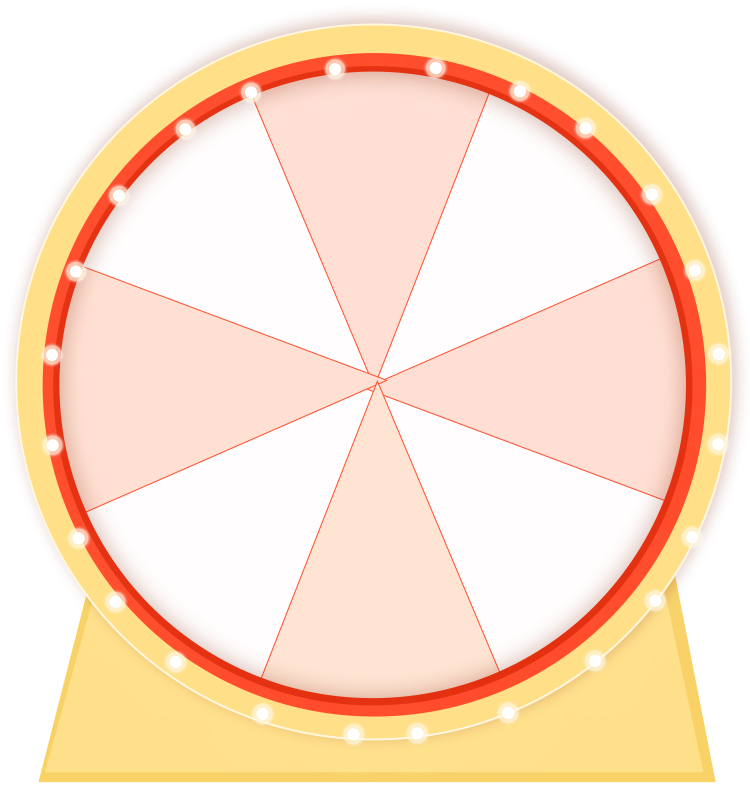
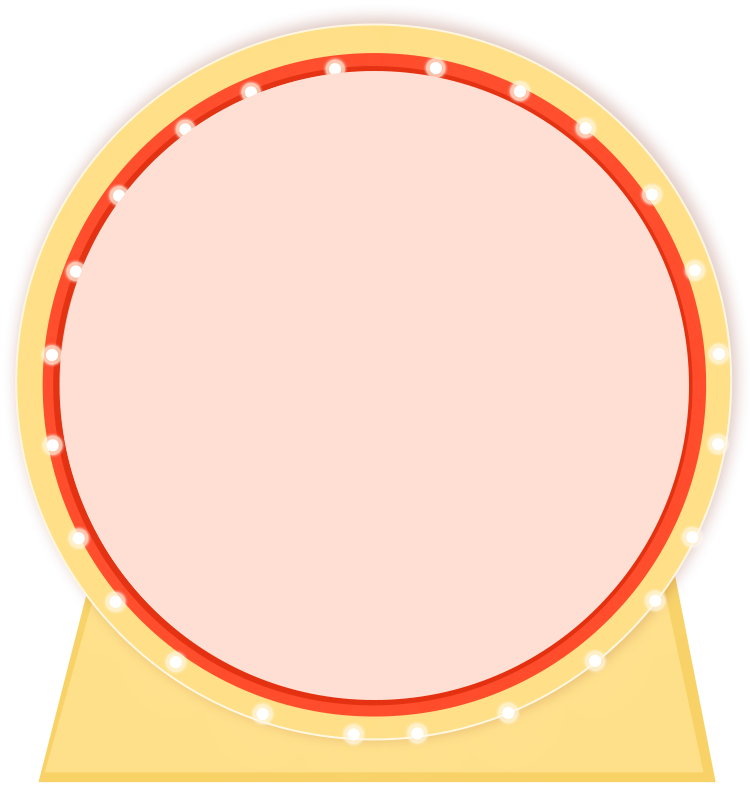
...

Changed region(s): [[0.092, 0.0623, 0.92, 0.8717], [0.0613, 0.4047, 0.092, 0.5604], [0.092, 0.3425, 0.1227, 0.4047]]

diff --git a/pages/turntable.vue b/pages/turntable.vue
@@ -11,13 +11,22 @@
         <view class="zp_box">
 
             <view class="zp_zz">
-
-                <image style="width: 100%;" src="/static/zp_zz.png" mode="widthFix"></image>
+                <image style="width: 100%;" src="/static/zp_zz.png" mode="widthFix" @click="start"></image>
             </view>
-            
+
+            <view class="info_box">
+                <view class="panel">
+                    <view class="box-item" v-for="(item, index) in prizeList" :key="index">
+                        <text>{{ item.name}}</text>
+                        <text>{{ item.amount}}</text>
+                        <!-- <text>元</text>  -->
+                    </view>
+                </view>
+            </view>
+
         </view>
 
-        
+
 
     </view>
 
@@ -27,48 +36,121 @@
 </template>
 
 <script>
-    export default{
-        data(){
-            return{
-                zp_list:[]
-            }
-        },
-        methods :{
-            getDataList(){
-                this.to.www(this.api.zp_list)
-            }
-        },
-        onLoad(){
-            this.getDataList()
+export default {
+    data() {
+        return {
+            user_info:{},
+            rotateNum: 0,
+
+            isStart: false,
+			startTimer: null,
+
+            cishu: 0,
+            prizeList: [],
+			prizeRange: [],
         }
+    },
+    methods: {
+        getDataList() {
+            this.to.www(this.api.signinPrizeList)
+            .then(res => {
+                this.prizeList = res.data;
+                // 中奖范围
+                this.prizeList.forEach((item, idx) => {
+                    this.prizeRange.push({
+                        id: item.id,
+                        min: idx * 51.42 + 5,
+                        max: (idx + 1) * 51.42 - 5
+                    })
+                })
+            })
+        },
+
+        getUserInfo(){
+            this.to.www(this.api.user_info)
+            .then(res => {
+                this.user_info = res.data
+
+                const {huodong = 0, admin_huodong = 0} = this.user_info
+                if(huodong) this.cishu = huodong
+                if(!huodong && admin_huodong)   this.cishu = admin_huodong
+
+            })
+        },
+        getRandomNumber(min, max) {
+            return Math.floor(Math.random() * (max - min + 1) + min);
+        },
+        start() {
+            
+            if(this.cishu <= 0){
+                this.toa('暂无抽奖次数')
+            }else{
+                console.log(this.cishu)
+                if (this.isStart || this.cishu <= 0) return
+
+                this.to.www(this.api.signinTurntable)
+                .then(res => {
+                    this.cishu--;
+                    this.isStart = true;
+                    this.startTimer = setInterval(() => {
+                        this.rotateNum = this.rotateNum + 10;
+                    }, 1)
+                    let prize = this.prizeRange.find(item => item.id == res.data.prize_id)
+                    setTimeout(() => {
+                        this.isStart = false;
+                        clearInterval(this.startTimer);
+                        let rv = this.getRandomNumber(prize.min, prize.max);
+                        if(rv < 0){
+                            rv = 360 + rv;
+                        }
+                        this.rotateNum = rv;
+                        uni.showToast({
+                            title: res.data.name,
+                            icon: 'none'
+                        });
+                    }, 2000)
+                })
+                .catch((err) => {
+                    this.isStart = false;
+                })
+
+
+            }
+        }
+
+    },
+    onLoad() {
+        this.getUserInfo()
+        this.getDataList()
     }
+}
 </script>
 
 
 <style lang="scss">
-
-page{
+page {
     height: 100%;
     width: 100%;
     background-image: url('/static/zp_BG.jpg');
     background-size: 100% 100%;
-	background-repeat: no-repeat;
-    
+    background-repeat: no-repeat;
+
 }
 
-.page_truntable{
+.page_truntable {
     padding-top: 160rpx;
-    
-    .truntable_title{
+
+    .truntable_title {
         padding: 0 20rpx;
         margin-bottom: 80rpx;
-        .bottom{
+
+        .bottom {
             margin-top: 50rpx;
         }
     }
 
     // 转盘
-    .zp_box{
+    .zp_box {
         height: 100%;
         height: 500px;
         background-image: url('/static/zp.png');
@@ -77,17 +159,72 @@ page{
         position: relative;
 
         // 指针
-        .zp_zz{
+        .zp_zz {
             position: absolute;
             width: 20vw;
             top: 35vw;
-	        left: 40vw;
+            left: 40vw;
+
+            z-index: 9;
         }
     }
 
-    
+
 }
 
 
+.info_box {
+	position: absolute;
+
+    top: 0;
+    left: 0;
+}
+
+.panel {
+	width: 100vw;
+	height: 100vw;
+	
+    // background: url("../static/zp.png") no-repeat;
+	// background-size: 100% 100%;
+
+	position: relative;
+
+	.box-item {
+		position: absolute;
+		top: 16%;
+		left: 42%;
+		text-align: center;
+		font-size: 36rpx;
+		color: $th;
+		font-weight: bold;
+		height: 34vw;
+		transform-origin: center bottom;
+		width: 17vw;
+		transform: rotate(25.71deg);
+	}
+	
+	.box-item:nth-child(2) {
+		transform: rotate(77.13deg);
+	}
+
+	.box-item:nth-child(3) {
+		transform: rotate(128.55deg);
+	}
+
+	.box-item:nth-child(4) {
+		transform: rotate(179.97deg);
+	}
+
+	.box-item:nth-child(5) {
+		transform: rotate(231.39deg);
+	}
+
+	.box-item:nth-child(6) {
+		transform: rotate(282.81deg);
+	}
+	.box-item:nth-child(7) {
+		transform: rotate(334.23deg);
+	}
+}
 
 </style>

diff --git a/pages/mine.vue b/pages/mine.vue
@@ -52,7 +52,7 @@
 								可提余额
 							</view>
 							<view class="bottom">
-								0.00
+								{{user_info.shouyijin || '0.00'}}
 							</view>
 						</view>
 						<view class="item flex flex_direction_column flex-y-center">
@@ -60,7 +60,7 @@
 								可用余额
 							</view>
 							<view class="bottom">
-								0.00
+								{{user_info.topup_balance || '0.00'}}
 							</view>
 						</view>
 						<view class="item flex flex_direction_column flex-y-center">
@@ -76,7 +76,7 @@
 								激活国债份额
 							</view>
 							<view class="bottom font_red">
-								0.00
+								{{user_info.guozhaihongli || '0.00'}}
 							</view>
 						</view>
 					</view>
@@ -86,12 +86,21 @@
 								两重建设基金
 							</view>
 							<view class="bottom">
-								0.00
+								{{user_info.liangchongjianshe || '0.00'}}
 							</view>
 						</view>
 						<view class="item flex flex_direction_column flex-y-center">
 							<view class="top">
 								功勋值
+							</view>
+							<view class="bottom">
+								{{user_info.gongxun || '0'}}
+							</view>
+						</view>
+
+						<view class="item flex flex_direction_column flex-y-center">
+							<view class="top">
+								预计到期分红
 							</view>
 							<view class="bottom">
 								0.00
@@ -373,9 +382,16 @@
 					.line{
 						padding: 20rpx 0;
 						.item{
+							// width: 25%;
 							padding: 0 2%;
+
+							display: flex;
+							justify-content: center;
+							align-items: center;
+
 							.top{
 								font-size: 26rpx;
+								text-align: center;
 							}
 							.bottom{
 								padding-top: 16rpx;

diff --git a/pages/gxjy.vue b/pages/gxjy.vue
@@ -12,11 +12,11 @@
 				</view>
 				<view class="row flex">
 					<view class="left-side">功勋值：</view>
-					<view class="right-side"></view>
+					<view class="right-side">{{ user_info.gongxun }}</view>
 				</view>
-				<view class="row flex">
-					<view class="left-side">功勋称号：</view>
-					<view class="right-side"></view>
+				<view class="row flex" style="min-height: 60rpx;">
+					<!-- <view class="left-side">功勋称号：</view>
+					<view class="right-side"></view> -->
 				</view>
 			</view>
 		</view>

diff --git a/LOCKED.js b/LOCKED.js
@@ -112,8 +112,13 @@ const xxxxxxxxxxxxxx = {
 	team_list:'QprO2JuWHOhxkF53skars2Y4DAcFtuPixgb/DoILw2Y=',
 	// 幻灯片
 	banner_list:'8314DXechjD16MEA1zrBVA==',
-	// 转盘列表
-	zp_list:'Oxg+fMYXXfDtc8i3R9ILpgZ922ocJnEHQrQhh4wfF2c=',
+	
+	// 转盘
+	signinPrizeList: 'Oxg+fMYXXfDtc8i3R9ILpgZ922ocJnEHQrQhh4wfF2c=',
+	signinTurntable: 'KA+9Q8zk0SgXlQTv0KsNNT1FyTd6b0cF8mdRU9vMS+4=',
+
+	signinPrizeAllRecord: '/GfCd7Ox2P8l4M0UoCHAc6Q8OuRvXHosL+NKzoafg+k=',
+	
 
 }
 export default xxxxxxxxxxxxxx

diff --git a/domain.js b/domain.js
@@ -58,7 +58,7 @@ function decrypt(content, keyStr) {
 	return CryptoJS.enc.Utf8.stringify(decrypt).toString();
 }
 
-console.log('encrypt',encryptCBC('order/huodonglist'))
+console.log('encrypt',encryptCBC('order/huodongPlaceOrder'))
 
 var
 	api_index = 0,
